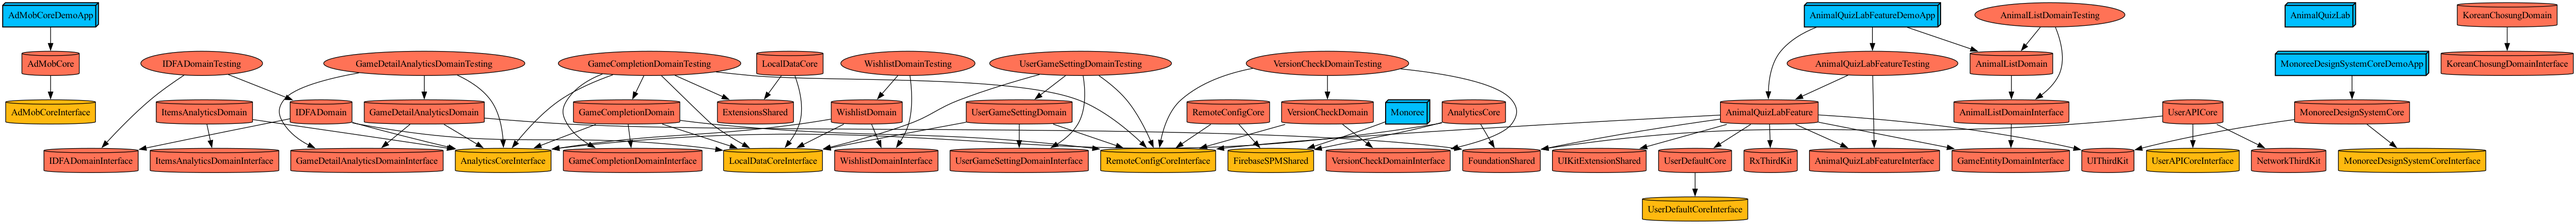
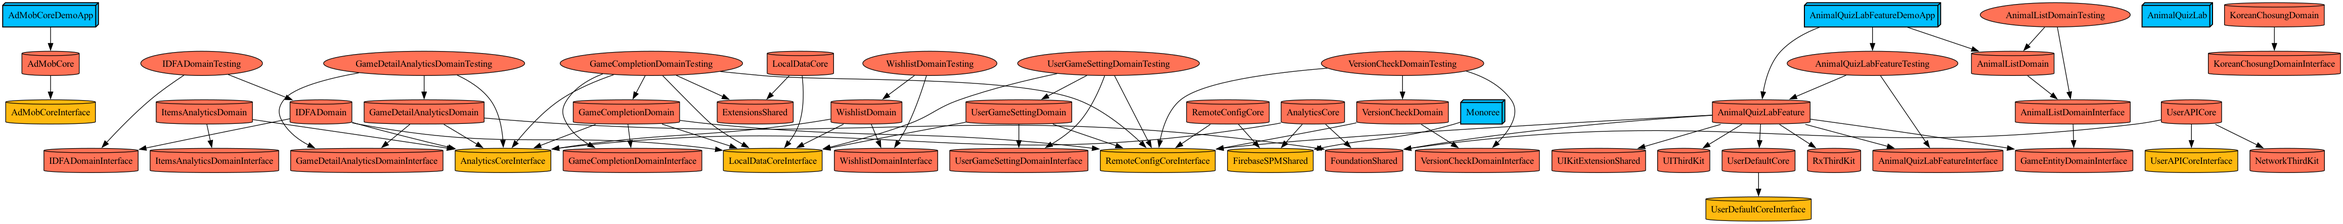
[#151] 모듈 정리

diff --git a/Tuist/ProjectDescriptionHelpers/Modules/CoreModule.swift b/Tuist/ProjectDescriptionHelpers/Modules/CoreModule.swift
@@ -4,7 +4,6 @@ public enum CoreModule: String, CaseIterable {
     case AdMobCore
     case AnalyticsCore
     case LocalDataCore
-	case MonoreeDesignSystemCore
 	case RemoteConfigCore
     case UserAPICore
     case UserDefaultCore
